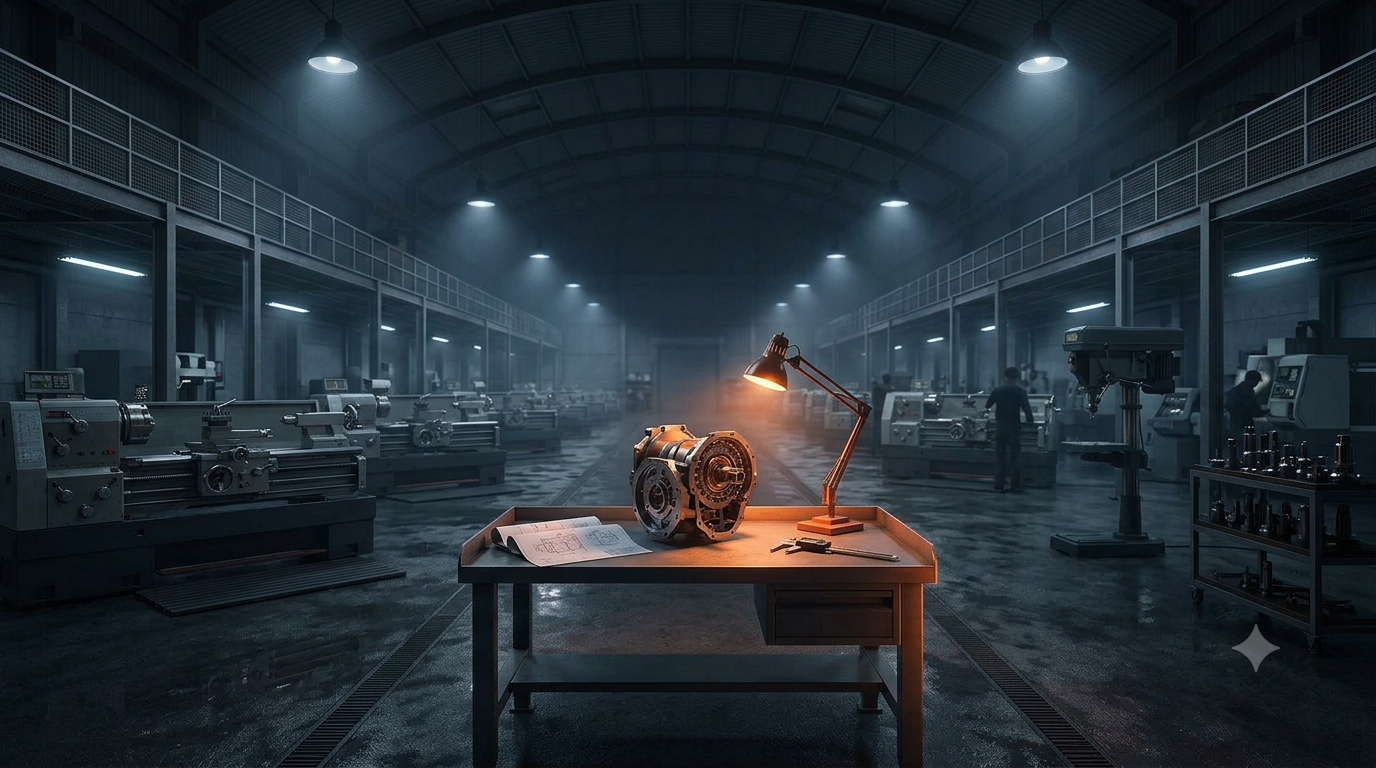
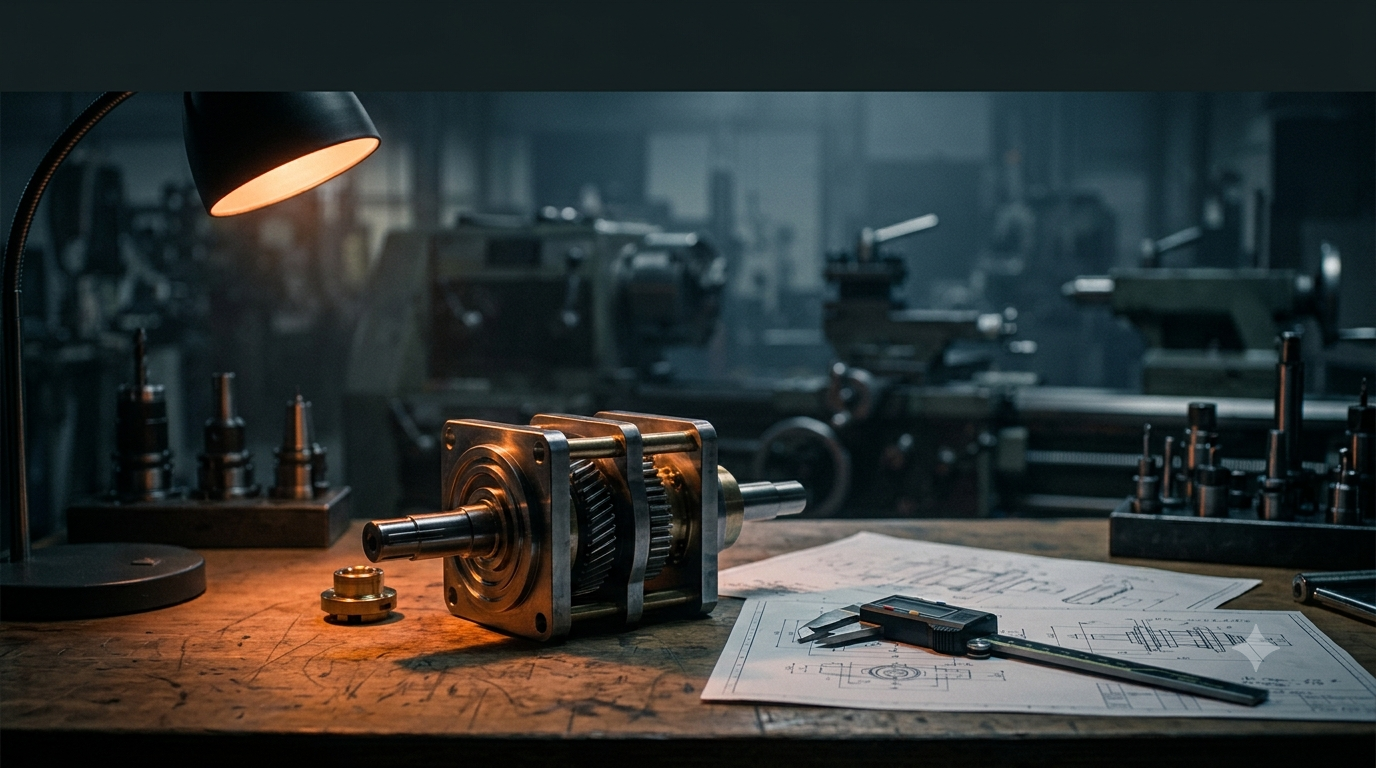
Replace 5 industry photos with distinguishable versions; deepen tile scrims; one-line blurbs
- New sector-distinct photos: Manufacturing (milling), Textile (thread cones), Food Processing (conveyor), Warehousing (forklift), Engineering (workbench); Logistics/Construction/Agriculture/Packaging untouched
- Scrim now transparent to near-solid graphite (0.97) covering title + description on all nine tiles
- Blurbs shortened to clean one-liners; no clamps anywhere on tiles
- Stale .next cache cleared; old jpg files removed

diff --git a/src/lib/site.ts b/src/lib/site.ts
@@ -52,15 +52,15 @@ export const primaryNav: NavItem[] = [
 ];
 
 export const industries = [
-  { name: "Manufacturing", slug: "manufacturing", icon: "Factory", image: "/images/industries/manufacturing.jpg", blurb: "Reliable MRO and production supply for plants running around the clock.", supplies: ["Bearings & power transmission", "Motors, drives & pumps", "MRO consumables & lubricants", "Machine spares & tooling"] },
-  { name: "Textile Mills", slug: "textile", icon: "Shirt", image: "/images/industries/textile.jpg", blurb: "Spare parts, consumables and machinery components for spinning & weaving.", supplies: ["Ring frame & loom spares", "Rollers, aprons & cots", "Compressed air components", "Humidification & filtration"] },
-  { name: "Food Processing", slug: "food-processing", icon: "UtensilsCrossed", image: "/images/industries/food-processing.jpg", blurb: "Hygienic, compliant equipment and packaging for food-grade operations.", supplies: ["Food-grade conveyor components", "Stainless fittings & valves", "Hygienic lubricants", "Primary & secondary packaging"] },
-  { name: "Warehousing", slug: "warehousing", icon: "Warehouse", image: "/images/industries/warehousing.jpg", blurb: "Handling, storage and safety systems for high-throughput facilities.", supplies: ["Racking & storage systems", "Material handling equipment", "Dock & door hardware", "Safety barriers & signage"] },
-  { name: "Logistics", slug: "logistics", icon: "Truck", image: "/images/industries/logistics.jpg", blurb: "Equipment and consumables that keep supply chains moving.", supplies: ["Strapping & load securing", "Pallets & containers", "Fleet consumables", "Warehouse packaging lines"] },
-  { name: "Construction", slug: "construction", icon: "HardHat", image: "/images/industries/construction.jpg", blurb: "Engineering supplies, fasteners and site safety at project scale.", supplies: ["Fasteners & anchors", "Site safety & PPE", "Formwork accessories", "Power tools & consumables"] },
-  { name: "Engineering Firms", slug: "engineering", icon: "DraftingCompass", image: "/images/industries/engineering.png", blurb: "Precision components and specialized technical sourcing.", supplies: ["Precision components to spec", "Instrumentation & measurement", "Custom machined parts", "Obsolete part re-sourcing"] },
-  { name: "Packaging", slug: "packaging", icon: "Package", image: "/images/industries/packaging.png", blurb: "Industrial packaging materials at consistent quality and scale.", supplies: ["Stretch film & shrink wrap", "Strapping systems", "Corrugated & cartons", "Protective packaging"] },
-  { name: "Agriculture", slug: "agriculture", icon: "Wheat", image: "/images/industries/agriculture.png", blurb: "Durable equipment and inputs for modern agribusiness.", supplies: ["Irrigation components", "Processing machinery spares", "Storage & handling", "Crop packaging materials"] },
+  { name: "Manufacturing", slug: "manufacturing", icon: "Factory", image: "/images/industries/manufacturing.png", blurb: "MRO and production supply for round-the-clock plants.", supplies: ["Bearings & power transmission", "Motors, drives & pumps", "MRO consumables & lubricants", "Machine spares & tooling"] },
+  { name: "Textile Mills", slug: "textile", icon: "Shirt", image: "/images/industries/textile.png", blurb: "Spares and consumables for spinning & weaving.", supplies: ["Ring frame & loom spares", "Rollers, aprons & cots", "Compressed air components", "Humidification & filtration"] },
+  { name: "Food Processing", slug: "food-processing", icon: "UtensilsCrossed", image: "/images/industries/food-processing.png", blurb: "Food-grade equipment, components and packaging.", supplies: ["Food-grade conveyor components", "Stainless fittings & valves", "Hygienic lubricants", "Primary & secondary packaging"] },
+  { name: "Warehousing", slug: "warehousing", icon: "Warehouse", image: "/images/industries/warehousing.png", blurb: "Racking, handling and safety systems at scale.", supplies: ["Racking & storage systems", "Material handling equipment", "Dock & door hardware", "Safety barriers & signage"] },
+  { name: "Logistics", slug: "logistics", icon: "Truck", image: "/images/industries/logistics.jpg", blurb: "Equipment that keeps supply chains moving.", supplies: ["Strapping & load securing", "Pallets & containers", "Fleet consumables", "Warehouse packaging lines"] },
+  { name: "Construction", slug: "construction", icon: "HardHat", image: "/images/industries/construction.jpg", blurb: "Fasteners, site safety and supplies at project scale.", supplies: ["Fasteners & anchors", "Site safety & PPE", "Formwork accessories", "Power tools & consumables"] },
+  { name: "Engineering Firms", slug: "engineering", icon: "DraftingCompass", image: "/images/industries/engineering.png", blurb: "Precision components and technical sourcing.", supplies: ["Precision components to spec", "Instrumentation & measurement", "Custom machined parts", "Obsolete part re-sourcing"] },
+  { name: "Packaging", slug: "packaging", icon: "Package", image: "/images/industries/packaging.png", blurb: "Industrial packaging at consistent quality and scale.", supplies: ["Stretch film & shrink wrap", "Strapping systems", "Corrugated & cartons", "Protective packaging"] },
+  { name: "Agriculture", slug: "agriculture", icon: "Wheat", image: "/images/industries/agriculture.png", blurb: "Durable equipment for modern agribusiness.", supplies: ["Irrigation components", "Processing machinery spares", "Storage & handling", "Crop packaging materials"] },
 ];
 
 export const productCategories = [

diff --git a/src/components/home/IndustriesTiles.tsx b/src/components/home/IndustriesTiles.tsx
@@ -46,14 +46,16 @@ export function IndustriesTiles() {
                     sizes="(max-width: 640px) 100vw, (max-width: 1024px) 50vw, 33vw"
                     className="object-cover transition-transform duration-300 ease-out-expo group-hover:scale-[1.03]"
                   />
-                  {/* Bottom-anchored scrim: transparent → graphite. Deepens on hover. */}
+                  {/* Bottom-anchored scrim: transparent → near-solid graphite,
+                      tall enough to cover title + description on bright photos.
+                      Deepens on hover. */}
                   <div
                     aria-hidden
-                    className="absolute inset-0 bg-gradient-to-t from-ink via-ink/45 to-transparent transition-opacity duration-300"
+                    className="absolute inset-0 bg-[linear-gradient(to_top,rgba(11,14,18,0.97)_0%,rgba(11,14,18,0.82)_22%,rgba(11,14,18,0.45)_45%,transparent_70%)]"
                   />
                   <div
                     aria-hidden
-                    className="absolute inset-0 bg-gradient-to-t from-ink via-ink/30 to-transparent opacity-0 transition-opacity duration-300 group-hover:opacity-100"
+                    className="absolute inset-0 bg-[linear-gradient(to_top,rgba(11,14,18,0.9)_0%,rgba(11,14,18,0.4)_40%,transparent_70%)] opacity-0 transition-opacity duration-300 group-hover:opacity-100"
                   />
                 </div>
 